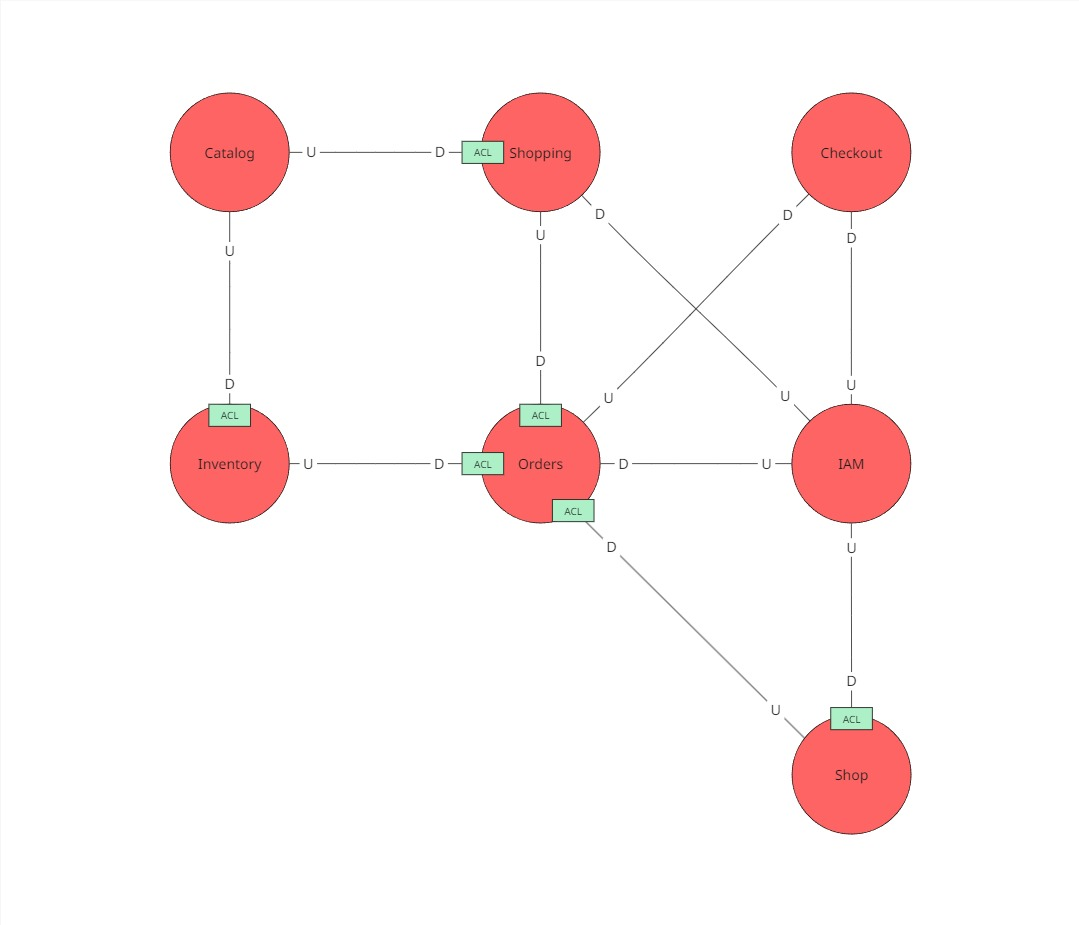
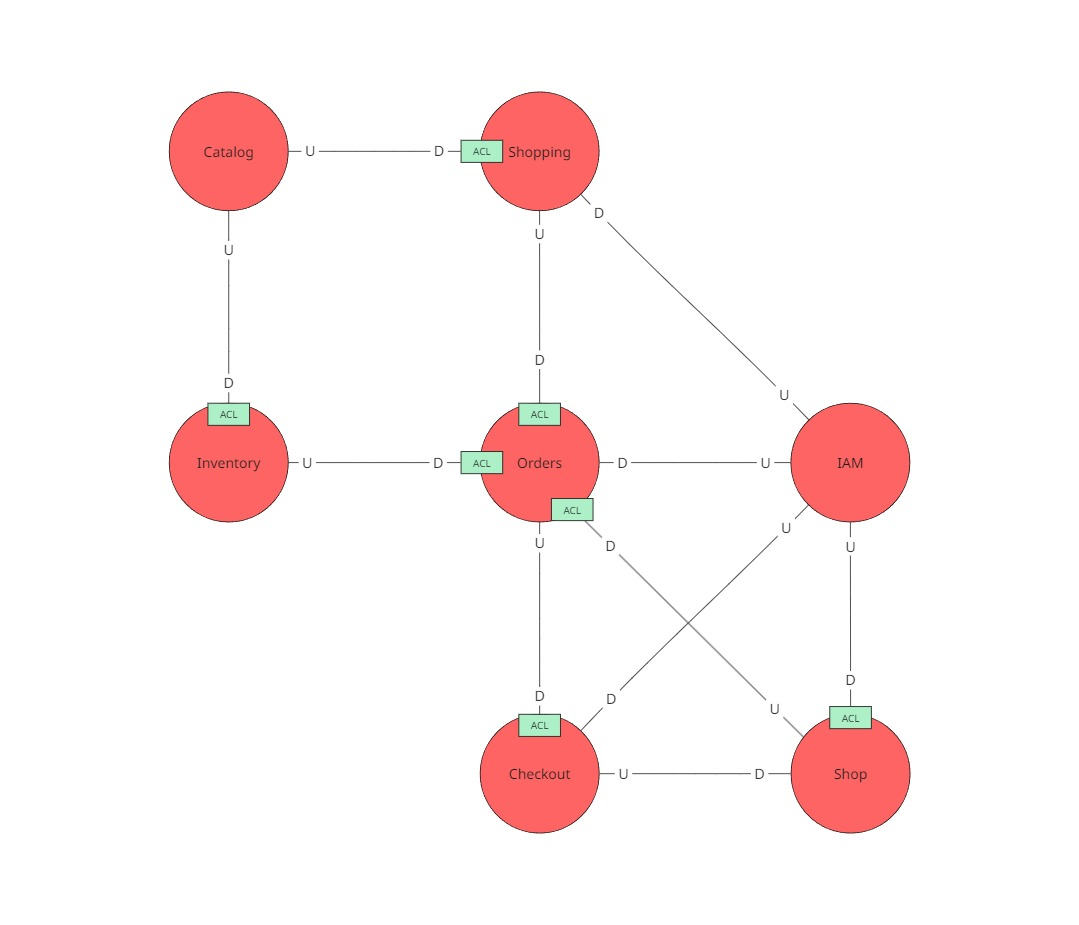
feat: add missing contexts canvases
and a whole lot of other things

diff --git a/sections/capitulo_2/strategic_design/eventstorming/bc_canvas.md b/sections/capitulo_2/strategic_design/eventstorming/bc_canvas.md
@@ -4,15 +4,53 @@ Con el fin de documentar el proposito y relación de los contextos identificados
 
 Este proceso ayudo al equipo de desarrollo a mejorar la comprensión del dominio y la razón de ser de cada contexto. 
 
-**ORDER CONTEXT:**
+**ORDER CONTEXT**
+
+Es responsable del ciclo de vida de una orden. La orden se genera en base a la idoneidad para atender el pedido bajo las condiciones solicitadas por el cliente. El ofrece como parte de la gestión de ese proceso aceptar o rechazar la atención de la orden y la posibilidad de cancelar su atención, asegurando que el despacho de la bodega mantenga autonomía sobre sus funciones según consideren necesario.
+
+Se comunica principalmente con Shopping y con el front-end a través del API expuesta, proporcionando endpoints que permiten consultar las tiendas idóneas y recibir la solicitud del armado de una orden en base a un Shopping Bag a través de un evento de OrderRequested.
+
+<img src="../../../../img/strategic-design/canvas/orders.jpg" alt="Bounded context canvas Orders context">
+
+**SHOPPING CONTEXT**
+
+Tiene como responsabilidad la planificación de las ordenes de compra. En ella los clientes eligen, en base al catálogo de productos en circulación, los productos que desean adquirir. Se trata de un contexto core y de planificación.
+
+Interactúa principalmente con orders, para solicitar la atención de un pedido en base a una bolsa de compras.
+
+También interactúa con el contexto de catalog. Los clientes obtienen la visión general de los productos disponibles en este contexto, quien los proporciona con sus datos completos y se los convierte al modelo local a través de ACL.
+
+<img src="../../../../img/strategic-design/canvas/shopping.jpg" alt="Bounded context canvas Shopping context">
 
 **CHECKOUT CONTEXT**
 
+Tiene como propósito registrar los ingresos y deudas pendientes de cobrar de cada orden, así resumir los datos en información para la toma de decisiones administrativas y contables. Por ejemplo, la deuda acumulada de los clientes confiables o los ingresos al cierre de caja de cada día.
+
+Se comunica principalmente con orders al termino del ciclo de vida de una orden, que solicita el registro de los ingresos o deudas.
+
+También se comunica con el contexto de shop para avisar de actualizar el crédito consumido por el cliente confiable.
+
+Por último, el front end consume la información que puede producir el contexto a partir de sus registros de datos para la toma de decisiones empresariales.
+
+<img src="../../../../img/strategic-design/canvas/checkout.jpg" alt="Bounded context canvas Checkout context">
+
 **SHOP CONTEXT**
-Tiene como propósito el gestionar los tenderos y clientes confiables de una bodega, así como limitar el credito que puede ofrecer la bodega a sus clientes confiables. Se trata de un contexto de soporte, pues es necesario para el funcionamiento del dominio pero no es un diferenciador en el mercado. Representa un contexto que cumplidor, pues permite la existencia de la bodega en si misma.
-Se comunica principalmente con el front-end, a través de la API expuesta, proporcionando endpoints que permiten la consulta, creación y eliminación de recursos.
-<img src="../../../../img/strategic-design/canvas/shop.jpg" alt="Bounded context canvas: Shop context">
+
+Tiene como propósito el gestionar los tenderos y clientes confiables de una bodega, así como limitar el credito que puede ofrecer la bodega a sus clientes confiables. Se trata de un contexto de soporte, pues es necesario para el funcionamiento del dominio pero no es un diferenciador en el mercado.
+
+Representa un contexto que cumplidor, pues permite la existencia de la bodega en si misma.
+Se comunica principalmente con el front-end, a través de la API expuesta, proporcionando endpoints que permiten la consulta y modificación de las reglas administrativas de la bodega. 
+
+También se comunica con el contexto de orders, que es uno de los principales consumidores de los datos para el armado de las ordenes asegurando el cumplimiento de las políticas de la bodega.
+
+Por último también se comunica con checkout. Este último contexto lleva las cuentas y trazabilidad de los pagos y deudas, emitiendo eventos para que los saldos de los clientes confiables se mantengan actualizados
+
+<img src="../../../../img/strategic-design/canvas/shop.jpg" alt="Bounded context canvas Shop context">
 
 **INVENTORY CONTEXT**
+
 La intención de este contexto es únicamente el manejo de existencia de productos en la bodega. No controla cantidad, sino la disponibilidad de estos en la bodega a sus clientes. Se trata de un contexto de soporte que representa el almacenamiento de productos de la bodega. Cumple el rol de ejecución forma parte del proceso operativo de una bodega.
+
+Se comunica principalmente con el front end para la actualización de información del inventario y con orders para proveer información acerca de los productos, como el precio de venta especial que puede tener la tienda sobre un producto.
+
 <img src="../../../../img/strategic-design/canvas/inventory.jpg" alt="Bounded context canvas: Inventory context">
